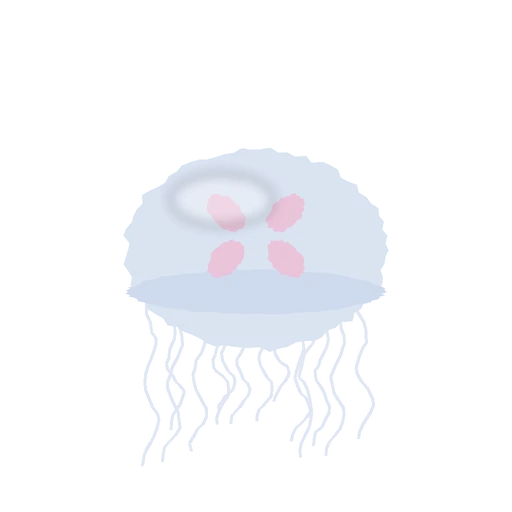
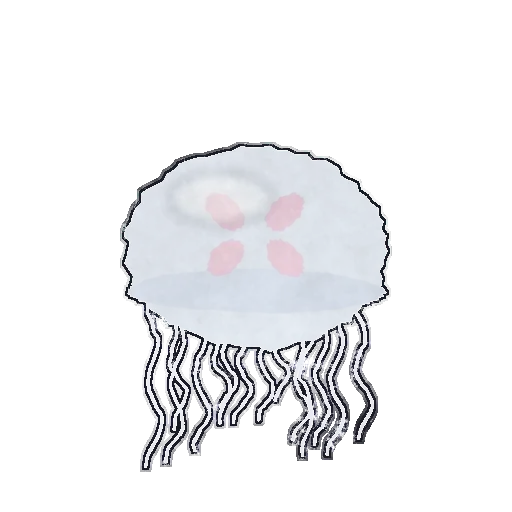
Art: ink/gouache render pass — paper+wash+ink-bleed textures, wobbly-ink sprites, painterly layered zones

Changed region(s): [[0.2188, 0.25, 0.75, 0.9375], [0.7188, 0.4375, 0.7812, 0.5938], [0.7188, 0.375, 0.75, 0.4375]]

diff --git a/art/render_ink.py b/art/render_ink.py
@@ -1,0 +1,369 @@
+"""
+Hand-drawn / gouache-and-ink storybook pass for Deep Sea Focus Journey.
+
+Direction (see .kiro/steering/visual-style.md): beautiful but uncanny,
+dark picture book. Muted earthy-ink palette (indigo, ink black, faded teal,
+bone paper, ONE amber lamp).
+
+Usage:  python3 art/render_ink.py
+
+Reads the original sprites from art/base/ (copied once from art/out/, so
+re-running never stacks the effect) and writes into art/out/:
+  paper.webp          tileable paper grain (grey, used with a blend mode)
+  wash.webp           gouache / watercolour wash with pooled tide edges
+  ink-bleed.webp      black ink creeping in from the page edges (RGBA)
+  bell-*.webp, creature-*.webp, eye.webp   wobbly-ink restyled sprites
+  zone-1..5-*.webp    painterly layered illustrations
+Fixed seeds: identical output on every run.
+"""
+import math
+import random
+import shutil
+from pathlib import Path
+
+import numpy as np
+from PIL import Image, ImageDraw, ImageFilter
+
+ROOT = Path(__file__).resolve().parent
+OUT = ROOT / "out"
+BASE = ROOT / "base"
+
+INK = (16, 14, 24)
+BONE = (214, 204, 178)
+
+
+# ---------------------------------------------------------------- noise ----
+def fbm(h, w, seed, power=1.6, lo=0.0, anis=(1.0, 1.0)):
+    """Periodic 1/f^power noise in 0..1 (FFT filtered white noise)."""
+    rng = np.random.default_rng(seed)
+    f = np.fft.fft2(rng.standard_normal((h, w)))
+    fy = np.fft.fftfreq(h)[:, None] * anis[0]
+    fx = np.fft.fftfreq(w)[None, :] * anis[1]
+    r = np.sqrt(fx * fx + fy * fy)
+    r[0, 0] = 1
+    filt = 1.0 / np.power(r + 1e-4, power)
+    filt[0, 0] = 0
+    filt *= (r * max(h, w) > lo)
+    n = np.real(np.fft.ifft2(f * filt))
+    n -= n.min()
+    return n / max(n.max(), 1e-9)
+
+
+def remap(arr, dx, dy):
+    """Bilinear sample arr (H,W[,C]) at (x+dx, y+dy)."""
+    h, w = arr.shape[:2]
+    yy, xx = np.mgrid[0:h, 0:w].astype(np.float32)
+    sx = np.clip(xx + dx, 0, w - 1.001)
+    sy = np.clip(yy + dy, 0, h - 1.001)
+    x0, y0 = sx.astype(int), sy.astype(int)
+    fx, fy = sx - x0, sy - y0
+    if arr.ndim == 3:
+        fx, fy = fx[..., None], fy[..., None]
+    a = arr[y0, x0] * (1 - fx) + arr[y0, x0 + 1] * fx
+    b = arr[y0 + 1, x0] * (1 - fx) + arr[y0 + 1, x0 + 1] * fx
+    return a * (1 - fy) + b * fy
+
+
+def save_webp(img, name, q=80):
+    path = OUT / name
+    img.save(path, "WEBP", quality=q, method=6)
+    print(f"{name:34s}{path.stat().st_size // 1024:5d} KB")
+
+
+# ------------------------------------------------------------ textures ----
+def paper_texture():
+    n = 512
+    g = fbm(n, n, 1, 0.8, lo=6)           # fine tooth
+    m = fbm(n, n, 2, 1.7)                  # blotches
+    f1 = fbm(n, n, 3, 1.1, anis=(1, 9))    # horizontal fibres
+    f2 = fbm(n, n, 4, 1.1, anis=(9, 1))    # vertical fibres
+    t = 0.45 * g + 0.25 * m + 0.15 * f1 + 0.15 * f2
+    t = (t - t.mean()) / (t.std() + 1e-6)
+    rng = np.random.default_rng(5)
+    spots = (rng.random((n, n)) > 0.9985).astype(np.float32)
+    spots = np.array(Image.fromarray((spots * 255).astype("uint8")).filter(ImageFilter.GaussianBlur(1.1))) / 255.0
+    t = 128 + t * 26 - spots * 90
+    save_webp(Image.fromarray(t.clip(0, 255).astype("uint8"), "L"), "paper.webp", 70)
+
+
+def wash_texture():
+    h, w = 576, 1024
+    a = fbm(h, w, 11, 2.3)
+    b = fbm(h, w, 12, 2.0)
+    base = 0.6 * a + 0.4 * b
+    # pooled tide edges: thin dark lines where the wash dries
+    iso = np.abs(((base * 7) % 1.0) - 0.5)
+    tide = np.clip(1 - iso * 14, 0, 1) * 0.35
+    v = 150 + (base - 0.5) * 120 - tide * 70
+    img = Image.fromarray(v.clip(0, 255).astype("uint8"), "L").filter(ImageFilter.GaussianBlur(0.8))
+    save_webp(img, "wash.webp", 62)
+
+
+def ink_bleed():
+    w, h = 1440, 900
+    yy, xx = np.mgrid[0:h, 0:w].astype(np.float32)
+    ex = np.minimum(xx, w - xx) / (w * 0.5)
+    ey = np.minimum(yy, h - yy) / (h * 0.5)
+    d = np.minimum(ex, ey * 1.0) * 0.6 + np.sqrt(ex * ey) * 0.4   # 0 at edge
+    n = fbm(h, w, 21, 1.9)
+    t = fbm(h, w, 22, 1.2, anis=(1, 1))
+    field = d + (n - 0.5) * 0.55 + (t - 0.5) * 0.18
+    # soft ink pool + sharp tendril threshold edge
+    alpha = np.clip((0.30 - field) * 7.0, 0, 1)
+    alpha = np.maximum(alpha, np.clip((0.12 - d) * 8, 0, 1))
+    alpha *= 0.96
+    rgba = np.zeros((h, w, 4), np.uint8)
+    rgba[..., 0], rgba[..., 1], rgba[..., 2] = 8, 7, 14
+    rgba[..., 3] = (alpha * 255).astype("uint8")
+    save_webp(Image.fromarray(rgba, "RGBA"), "ink-bleed.webp", 70)
+
+
+# --------------------------------------------------------------- sprites ----
+def dilate(a, size):
+    return np.array(Image.fromarray(a).filter(ImageFilter.MaxFilter(size)))
+
+
+def inkify(name, wobble=2.5, line=3, bone_line=False, desat=0.22, seed=1, keep_warm=False):
+    src = Image.open(BASE / name).convert("RGBA")
+    arr = np.array(src).astype(np.float32)
+    h, w = arr.shape[:2]
+    k = max(h, w) / 512.0
+    # 1. wobbly re-draw: low-frequency displacement of the whole drawing
+    dx = (fbm(h, w, seed, 2.4) - 0.5) * 2 * wobble * k * 2
+    dy = (fbm(h, w, seed + 50, 2.4) - 0.5) * 2 * wobble * k * 2
+    arr = remap(arr, dx, dy)
+    rgb, a = arr[..., :3], arr[..., 3]
+    # 2. muted earthy grade: desaturate, pull shadows to indigo, lights to bone
+    lum = rgb.mean(axis=2, keepdims=True)
+    rgb = rgb * (1 - desat) + lum * desat
+    tint = np.array([22, 26, 52], np.float32)
+    shadow = np.clip(1 - lum / 140.0, 0, 1)
+    rgb = rgb * (1 - 0.18 * shadow) + tint * 0.18 * shadow
+    bone = np.array(BONE, np.float32)
+    hi = np.clip((lum - 150) / 105.0, 0, 1)
+    rgb = rgb * (1 - 0.22 * hi) + bone * 0.22 * hi
+    # 3. gouache body: dry-brush mottling
+    m = fbm(h, w, seed + 7, 1.2)
+    rgb *= (0.90 + 0.2 * m)[..., None]
+    # 4. ink outline with varying width (two dilations mixed by noise)
+    al = np.clip(a, 0, 255).astype("uint8")
+    sol = (al > 40).astype("uint8") * 255
+    thin = dilate(sol, int(line * k) * 2 + 1).astype(np.float32) - sol
+    thick = dilate(sol, int(line * k * 2.2) * 2 + 1).astype(np.float32) - sol
+    wmix = fbm(h, w, seed + 9, 2.0)[..., None][..., 0]
+    edge = np.clip(thin * (1 - wmix) + thick * wmix, 0, 255) / 255.0
+    # broken line: dry gaps along the stroke
+    gaps = fbm(h, w, seed + 11, 1.0)
+    edge *= np.clip((gaps - 0.18) * 4, 0, 1)
+    if bone_line:
+        col = np.array(BONE, np.float32)
+        edge *= 0.55
+    else:
+        col = np.array(INK, np.float32)
+    out_rgb = rgb * (1 - edge[..., None]) + col * edge[..., None]
+    out_a = np.maximum(a / 255.0, edge * 0.95)
+    out = np.dstack([out_rgb.clip(0, 255), out_a * 255]).astype("uint8")
+    save_webp(Image.fromarray(out, "RGBA"), name, 82)
+
+
+def sprites():
+    BASE.mkdir(exist_ok=True)
+    for p in OUT.glob("*.webp"):
+        if p.name.startswith(("bell-", "creature-", "eye")) and not (BASE / p.name).exists():
+            shutil.copy(p, BASE / p.name)
+    for i, m in enumerate(("normal", "alert", "sleeping")):
+        inkify(f"bell-{m}.webp", wobble=1.6, line=2, bone_line=True, seed=10 + i, desat=0.15)
+    for i, p in enumerate(sorted(BASE.glob("creature-*.webp"))):
+        inkify(p.name, wobble=2.2, line=2, seed=30 + i)
+    inkify("eye.webp", wobble=3.0, line=2, seed=70, desat=0.35)
+
+
+# ----------------------------------------------------------------- zones ----
+W, H = 1920, 1080
+
+ZONES = [
+    # top, bottom, shaft, ink silhouette tone
+    dict(file="zone-1-sunlit.webp", top=(70, 120, 118), bot=(24, 58, 66), shaft=(205, 214, 186), ink=(14, 28, 34)),
+    dict(file="zone-2-twilight.webp", top=(36, 54, 92), bot=(12, 18, 40), shaft=(130, 146, 176), ink=(8, 12, 26)),
+    dict(file="zone-3-midnight.webp", top=(18, 28, 56), bot=(6, 8, 20), shaft=(70, 88, 128), ink=(4, 6, 14)),
+    dict(file="zone-4-abyssal.webp", top=(14, 15, 32), bot=(4, 4, 11), shaft=(56, 60, 112), ink=(2, 3, 8)),
+    dict(file="zone-5-hadal.webp", top=(11, 8, 14), bot=(3, 2, 6), shaft=(52, 30, 40), ink=(1, 1, 4)),
+]
+
+
+def wobble_poly(pts, amp, rng, sub=6):
+    out = []
+    for (x0, y0), (x1, y1) in zip(pts, pts[1:]):
+        for s in range(sub):
+            t = s / sub
+            out.append((x0 + (x1 - x0) * t + rng.uniform(-amp, amp), y0 + (y1 - y0) * t + rng.uniform(-amp, amp)))
+    out.append(pts[-1])
+    return out
+
+
+def kelp(d, x, base_y, height, width, sway, color, rng):
+    """A curved blade of kelp: polygon with tapering width."""
+    n = 18
+    left, right = [], []
+    for i in range(n + 1):
+        t = i / n
+        cx = x + math.sin(t * 3.0 + sway) * width * 5 * t + sway * 18 * t * t
+        cy = base_y - height * t
+        wd = width * (1 - t * 0.85) * (1 + 0.25 * math.sin(t * 9 + sway))
+        left.append((cx - wd + rng.uniform(-1.5, 1.5), cy))
+        right.append((cx + wd + rng.uniform(-1.5, 1.5), cy))
+    d.polygon(left + right[::-1], fill=color)
+
+
+def rock_mass(d, side, depth_idx, color, rng, scale=1.0):
+    """Jagged silhouetted rock wall at the left/right edge."""
+    pts = []
+    x_edge = 0 if side == "l" else W
+    sgn = 1 if side == "l" else -1
+    y = H * 0.1
+    pts.append((x_edge, 0))
+    while y < H:
+        reach = (120 + 260 * (math.sin(y / 170.0 + depth_idx) * 0.5 + 0.5) + rng.uniform(0, 90)) * scale
+        pts.append((x_edge + sgn * reach, y))
+        y += rng.uniform(50, 120)
+    pts.append((x_edge, H))
+    d.polygon(wobble_poly(pts, 4, rng, 3), fill=color)
+
+
+def zone_image(i, z):
+    rng = random.Random(100 + i)
+    nrng = np.random.default_rng(200 + i)
+    yy = np.linspace(0, 1, H, dtype=np.float32)[:, None, None]
+    top = np.array(z["top"], np.float32)
+    bot = np.array(z["bot"], np.float32)
+    sea = top * (1 - yy) ** 1.2 + bot * (1 - (1 - yy) ** 1.2)
+    sea = np.broadcast_to(sea, (H, W, 3)).copy()
+
+    # gouache wash: broad pigment mottling + pooled tide edge lines
+    n1 = fbm(H, W, 300 + i, 2.2)
+    n2 = fbm(H, W, 310 + i, 1.5)
+    amp = 22 - i * 3.2
+    sea *= (1 + (n1 - 0.5) * amp / 60.0)[..., None]
+    iso = np.abs(((n1 * 6) % 1) - 0.5)
+    tide = np.clip(1 - iso * 18, 0, 1)
+    sea *= (1 - tide * (0.10 - i * 0.012))[..., None]
+
+    # light shafts: soft brush washes, streaked along the stroke direction
+    shaft = np.array(z["shaft"], np.float32)
+    count = (5, 4, 3, 2, 1)[i]
+    strength = (0.30, 0.20, 0.12, 0.07, 0.035)[i]
+    streak = fbm(H, W, 400 + i, 1.0, anis=(1.0, 14.0))
+    yg, xg = np.mgrid[0:H, 0:W].astype(np.float32)
+    light = np.zeros((H, W), np.float32)
+    for k in range(count):
+        x0 = rng.uniform(0.25, 0.85) * W
+        ang = rng.uniform(0.18, 0.34)
+        wdt = rng.uniform(70, 150)
+        cx = x0 - yg * math.tan(ang)
+        band = np.exp(-((xg - cx) / wdt) ** 2) * (1 - yg / H) ** 1.4
+        light += band * (0.55 + 0.9 * streak)
+    light = np.array(Image.fromarray((np.clip(light, 0, 1.5) / 1.5 * 255).astype("uint8")).filter(ImageFilter.GaussianBlur(6))) / 255.0 * 1.5
+    # keep the bell's own area calmer
+    sea += light[..., None] * shaft * strength
+
+    img = Image.fromarray(sea.clip(0, 255).astype("uint8")).convert("RGBA")
+
+    # silhouette layers, far (hazy, lighter) to near (ink black)
+    ink = z["ink"]
+    layers = 3 if i < 4 else 2
+    for L in range(layers):
+        lay = Image.new("RGBA", (W, H), (0, 0, 0, 0))
+        d = ImageDraw.Draw(lay)
+        far = L / max(layers - 1, 1)        # 0 far .. 1 near
+        mix = 0.35 + 0.65 * far
+        col = tuple(int(c * mix + t * (1 - mix)) for c, t in zip(ink, z["bot"])) + (255,)
+        if i <= 1:
+            rock_mass(d, "l", L, col, rng, 0.55 + 0.5 * far)
+            rock_mass(d, "r", L + 3, col, rng, 0.45 + 0.4 * far)
+            for _ in range(int(14 - i * 6)):
+                side = rng.random()
+                x = (rng.uniform(0.0, 0.28) if side < 0.5 else rng.uniform(0.74, 1.0)) * W
+                kelp(d, x, H + 10, rng.uniform(260, 640) * (0.6 + far * 0.6), rng.uniform(6, 13) * (0.8 + far), rng.uniform(0, 6), col, rng)
+        elif i == 2:
+            rock_mass(d, "l", L, col, rng, 0.6 + 0.6 * far)
+            rock_mass(d, "r", L + 2, col, rng, 0.5 + 0.5 * far)
+            # huge shadow forms in the water
+            if L == 0:
+                for _ in range(3):
+                    cx, cy = rng.uniform(0.15, 0.9) * W, rng.uniform(0.25, 0.7) * H
+                    d.polygon(wobble_poly([(cx - 260, cy), (cx - 40, cy - 55), (cx + 330, cy + 10), (cx + 40, cy + 38), (cx - 260, cy)], 6, rng), fill=col[:3] + (150,))
+        elif i == 3:
+            rock_mass(d, "l", L, col, rng, 0.8 + 0.5 * far)
+            rock_mass(d, "r", L + 2, col, rng, 0.7 + 0.5 * far)
+            # hanging spires from above and a jagged floor
+            for _ in range(9):
+                x = rng.uniform(0, W)
+                hh = rng.uniform(80, 300) * (0.6 + far)
+                d.polygon(wobble_poly([(x - 28, 0), (x, hh), (x + 30, 0)], 4, rng, 4), fill=col)
+            floor = [(0, H)]
+            xx_ = 0
+            while xx_ < W + 80:
+                floor.append((xx_, H - rng.uniform(40, 150) * (0.7 + far)))
+                xx_ += rng.uniform(40, 110)
+            floor += [(W, H)]
+            d.polygon(wobble_poly(floor, 3, rng, 2), fill=col)
+        else:
+            # hadal: barely-visible huge things. Ribs, a vast curved limb.
+            tone = tuple(int(c) for c in (5 + 3 * L, 4 + 2 * L, 8 + 4 * L)) + (255,)
+            if L == 0:
+                for k in range(7):
+                    cx = W * (0.62 + 0.05 * k)
+                    d.arc((cx - 520, H * 0.1 - 80 * k * 0.2, cx + 520, H * 1.7), 200, 292, fill=tone, width=26 - k)
+                d.polygon(wobble_poly([(W * 0.75, 0), (W * 0.9, H * 0.35), (W * 1.02, H * 0.9), (W * 0.96, H * 0.4), (W * 0.84, 0)], 8, rng, 6), fill=tone)
+            else:
+                rock_mass(d, "l", 5, (2, 2, 5, 255), rng, 0.9)
+                floor = [(0, H)]
+                xx_ = 0
+                while xx_ < W + 80:
+                    floor.append((xx_, H - rng.uniform(30, 110)))
+                    xx_ += rng.uniform(60, 150)
+                floor += [(W, H)]
+                d.polygon(wobble_poly(floor, 3, rng, 2), fill=(1, 1, 3, 255))
+        # soft painted edge: slight blur on far layers, ink rim on near
+        if far < 1:
+            lay = lay.filter(ImageFilter.GaussianBlur(5 - 4 * far))
+        img = Image.alpha_composite(img, lay)
+
+    # hadal: dull red eyes-of-nothing, barely there
+    if i == 4:
+        d = ImageDraw.Draw(img, "RGBA")
+        for _ in range(6):
+            x, y = rng.uniform(0.55, 0.95) * W, rng.uniform(0.1, 0.6) * H
+            d.ellipse((x - 3, y - 2, x + 3, y + 2), fill=(90, 18, 24, 70))
+    if i == 3:
+        glow = Image.new("RGBA", (W, H), (0, 0, 0, 0))
+        d = ImageDraw.Draw(glow)
+        for _ in range(26):
+            x, y = rng.uniform(0, W), rng.uniform(0.3, 0.95) * H
+            d.ellipse((x - 3, y - 3, x + 3, y + 3), fill=(90, 120, 200, 130))
+        img = Image.alpha_composite(img, glow.filter(ImageFilter.GaussianBlur(3)))
+
+    # ink-and-brush finish: displace the whole painting very slightly
+    arr = np.array(img.convert("RGB")).astype(np.float32)
+    dx = (fbm(H, W, 500 + i, 2.6) - 0.5) * 7
+    dy = (fbm(H, W, 510 + i, 2.6) - 0.5) * 7
+    arr = remap(arr, dx, dy)
+    # vignette in ink, thickening with depth
+    vx = (xg / W - 0.45) ** 2 * 1.2 + (yg / H - 0.52) ** 2 * 1.5
+    arr *= np.clip(1.08 - vx * (0.9 + i * 0.25), 0.18, 1)[..., None]
+    out = Image.fromarray(arr.clip(0, 255).astype("uint8"))
+    save_webp(out, z["file"], 74)
+
+
+def zones():
+    for i, z in enumerate(ZONES):
+        zone_image(i, z)
+
+
+if __name__ == "__main__":
+    OUT.mkdir(exist_ok=True)
+    paper_texture()
+    wash_texture()
+    ink_bleed()
+    sprites()
+    zones()
